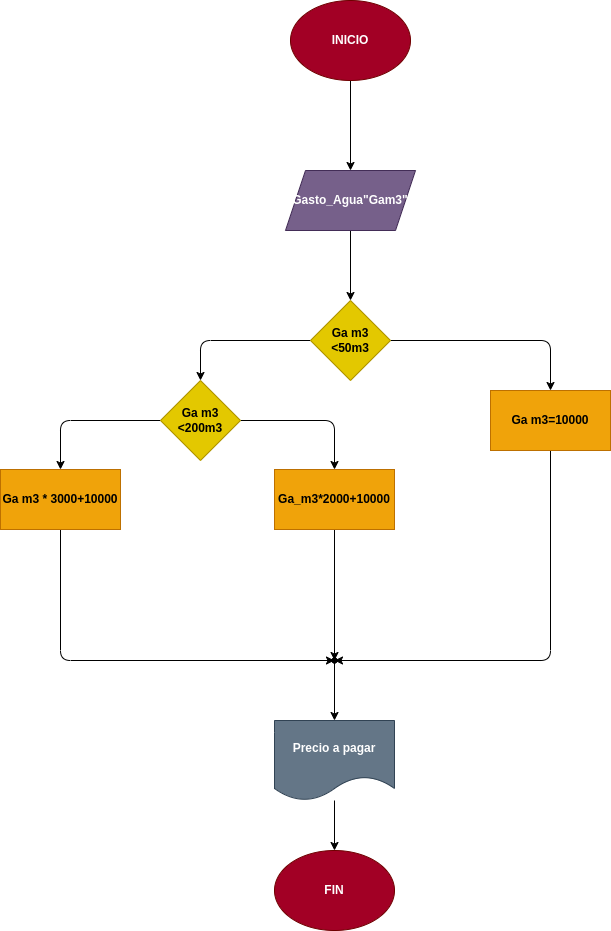
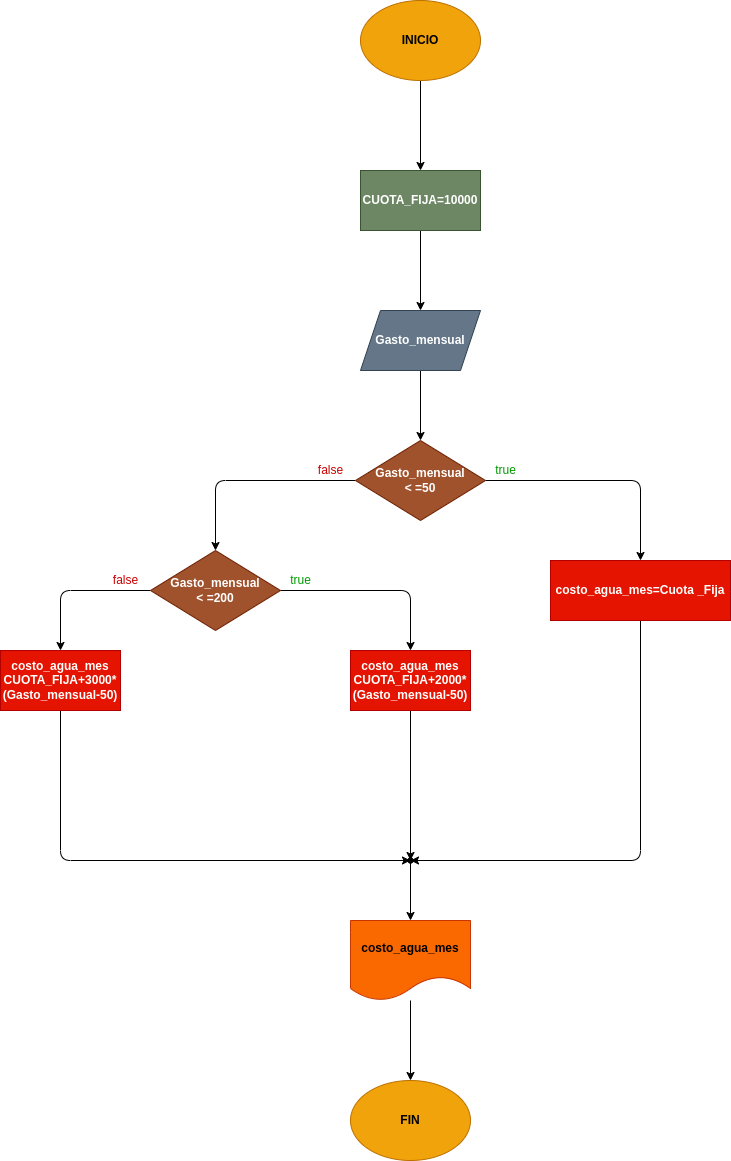
se realizo analisis y diseño

Changed region(s): [[0.0, 0.3738, 0.653, 1.0], [0.4354, 0.0, 0.7152, 0.4672], [0.7463, 0.4049, 1.0, 0.7164]]

diff --git a/Ejercicio-5/gasto_de_agua.py b/Ejercicio-5/gasto_de_agua.py
@@ -2,17 +2,17 @@
 
 # Input
 
-Gasto_agua = int(input("Digite el gasto de agua en su vivienda: "))
-
+M3 = int(input("Digite el gasto de agua de su vivienda: "))
+PRECIO_NORMAL= 10000
 # Processing
 
-if Gasto_agua < 50:
-    Pago = 10000
-elif Gasto_agua < 200:
-    Pago = Gasto_agua *2000+10000
+if M3 < 50:
+    PAGO = 0 + PRECIO_NORMAL
+elif M3 < 200:
+    PAGO = ((M3-50) *2000) +PRECIO_NORMAL
 else:
-    Pago = Gasto_agua*3000+10000
+    PAGO = ((M3-50) *3000) +PRECIO_NORMAL
 
 # Output 
 
-print ("El dinero a pagar por el gasto del agua es: ",Pago,)
+print ("El dinero a pagar por el gasto del agua es: ",PAGO,)

diff --git a/Ejercicio-5/README.md b/Ejercicio-5/README.md
@@ -4,15 +4,19 @@
 # ANALISIS
 Variables de entrada (input)
 
-Gasto_agua
+Gasto_mensual
 
 variables de proceso (processing)
 
-Pago = Es el monto a pagar dependiendo del consumo de agua de la vivienda
+Gasto_agua <=50 el costo es la cuota fija
 
---Variables de salida (output)
+Gasto_agua <=200 el costo de agua es la cuota_fija+2000*Gasto_mensual-50
 
-Pago: Es el monto requerido por la empresa a pagar
+Gasto_agua >200 el costo de agua es la cuota_fija+3000*Gasto_mensual-50
+
+Variables de salida (output)
+
+Costo agua mes: Es el monto requerido por la empresa a pagar
 
 # DISEÑO
 
